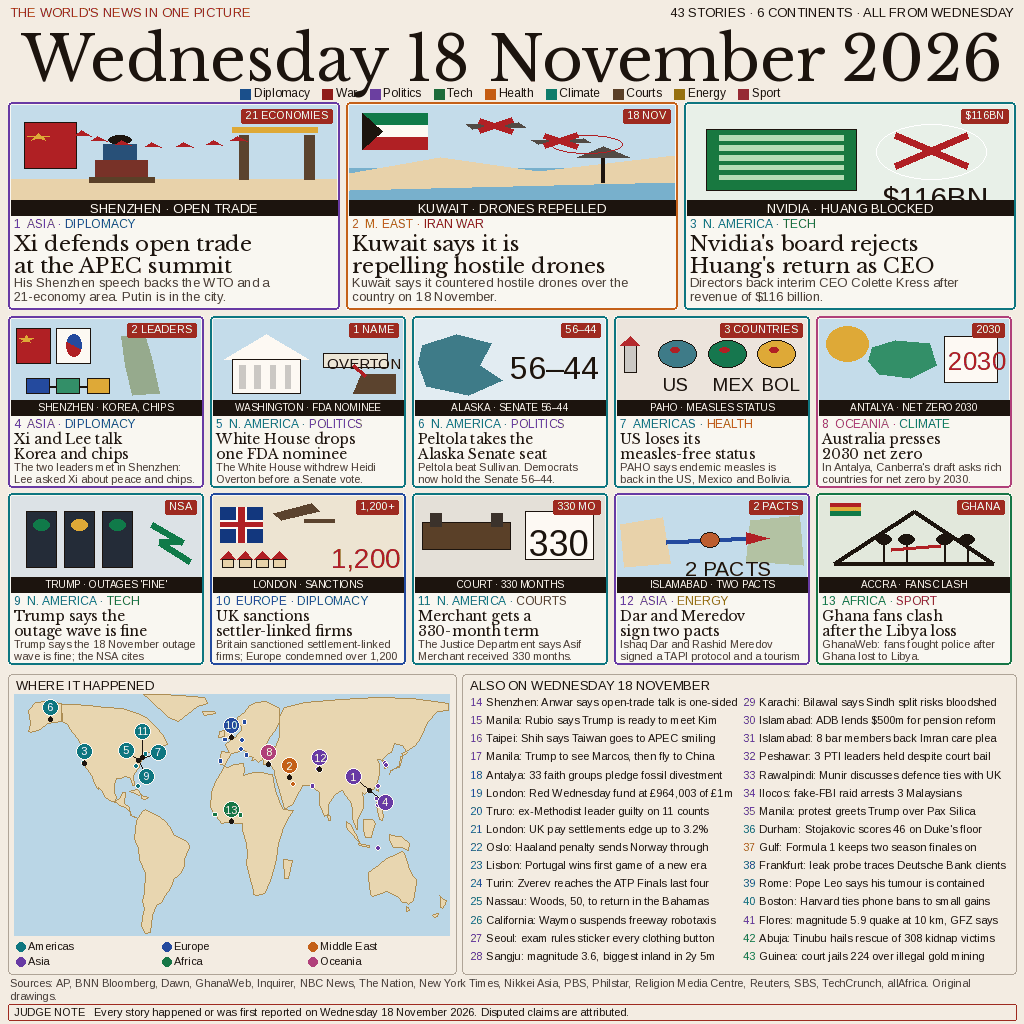
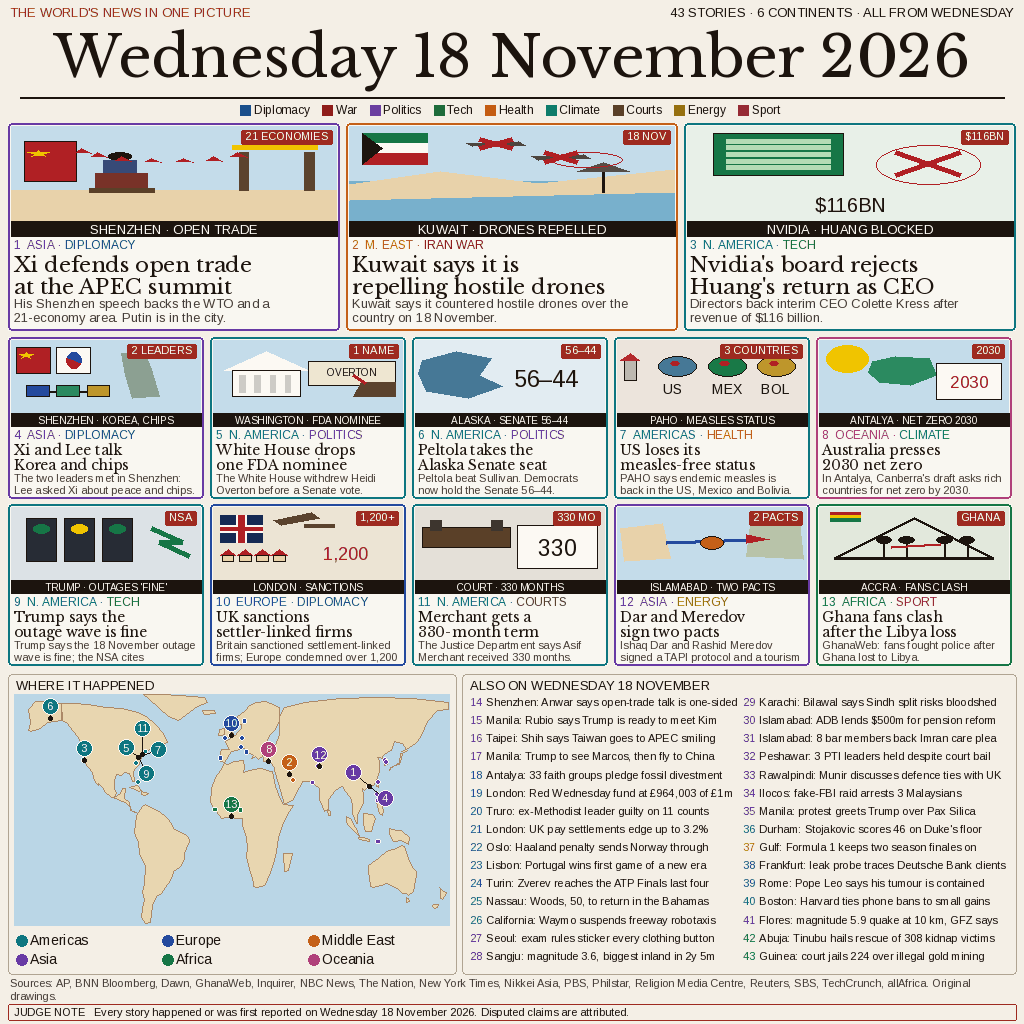
Fix overlapping labels on the 18 November page.
Keep the field key under the date rule, fit the Nvidia figure inside its picture, and drop the Islamabad label that sat on the drawing.

diff --git a/build/scenes.py b/build/scenes.py
@@ -134,13 +134,20 @@ def scene2(d, w, h, fonts):
 def scene3(d, w, h, fonts):
     r = R(d, w, h)
     r.rect(0, 0, 100, 100, (232, 240, 232))
-    r.rect(6, 22, 46, 56, (24, 120, 64), INK)
+    r.rect(8, 8, 40, 44, (24, 120, 64), INK)
     for i in range(5):
-        r.rect(10, 28 + i * 9, 38, 4, (180, 220, 180))
-    r.oval(58, 18, 34, 50, None)
-    r.line([(64, 28), (86, 56)], RED, r.h * 0.07)
-    r.line([(86, 28), (64, 56)], RED, r.h * 0.07)
-    r.text(60, 68, "$116BN", r.px(fonts, 0.28), INK)
+        r.rect(12, 14 + i * 7, 32, 4, (180, 220, 180))
+    r.oval(58, 20, 32, 42, None, RED)
+    r.line([(64, 28), (84, 52)], RED, max(2, int(r.h * 0.06)))
+    r.line([(84, 28), (64, 52)], RED, max(2, int(r.h * 0.06)))
+    label = "$116BN"
+    size = max(12, int(h * 0.22))
+    f = ImageFont.truetype(fonts["sansb"], size)
+    while size > 11 and d.textlength(label, font=f) > w * 0.72:
+        size -= 1
+        f = ImageFont.truetype(fonts["sansb"], size)
+    tw = d.textlength(label, font=f)
+    d.text(((w - tw) / 2, h - size - h * 0.08), label, font=f, fill=INK)
 
 
 def scene4(d, w, h, fonts):
@@ -162,8 +169,15 @@ def scene5(d, w, h, fonts):
     r.rect(10, 42, 36, 36, WHITE, INK)
     for i in range(4):
         r.rect(14 + i * 8, 48, 3, 24, (200, 206, 214))
-    r.rect(58, 36, 34, 14, (244, 236, 214), INK)
-    r.text(60, 38, "OVERTON", r.px(fonts, 0.16), INK)
+    r.rect(50, 30, 46, 32, (244, 236, 214), INK)
+    label = "OVERTON"
+    size = max(8, int(h * 0.15))
+    f = ImageFont.truetype(fonts["sansb"], size)
+    while size > 8 and (d.textlength(label, font=f) > w * 0.34 or size > h * 0.18):
+        size -= 1
+        f = ImageFont.truetype(fonts["sansb"], size)
+    tw = d.textlength(label, font=f)
+    d.text((w * 0.50 + (w * 0.46 - tw) / 2, h * 0.36), label, font=f, fill=INK)
     r.poly([(78, 58), (96, 58), (96, 78), (74, 78)], (90, 70, 56))
     r.line([(74, 48), (80, 60)], RED, r.h * 0.05)
 
@@ -173,13 +187,12 @@ def scene6(d, w, h, fonts):
     r.rect(0, 0, 100, 100, (226, 236, 242))
     r.poly([(4, 28), (22, 16), (40, 26), (34, 48), (46, 64), (28, 80), (6, 70), (2, 46)], (70, 120, 150))
     label = "56–44"
-    size = max(11, int(h * 0.36))
+    size = max(11, int(h * 0.32))
     f = ImageFont.truetype(fonts["sansb"], size)
-    while size > 10 and d.textlength(label, font=f) > w * 0.48:
+    while size > 10 and d.textlength(label, font=f) > w * 0.46:
         size -= 1
         f = ImageFont.truetype(fonts["sansb"], size)
-    tw = d.textlength(label, font=f)
-    d.text((w * 0.50, h * 0.32), label, font=f, fill=INK)
+    d.text((w * 0.52, h * 0.36), label, font=f, fill=INK)
 
 
 def scene7(d, w, h, fonts):
@@ -200,8 +213,15 @@ def scene8(d, w, h, fonts):
     r.rect(0, 0, 100, 100, SKY)
     r.oval(4, 8, 22, 36, GOLD)
     r.poly([(28, 30), (40, 22), (58, 26), (62, 48), (48, 62), (32, 58), (26, 44)], (40, 140, 90))
-    r.rect(66, 18, 28, 48, WHITE, INK)
-    r.text(68, 28, "2030", r.px(fonts, 0.28), RED)
+    r.rect(62, 32, 34, 50, WHITE, INK)
+    label = "2030"
+    size = max(8, int(h * 0.24))
+    f = ImageFont.truetype(fonts["sansb"], size)
+    while size > 8 and d.textlength(label, font=f) > w * 0.28:
+        size -= 1
+        f = ImageFont.truetype(fonts["sansb"], size)
+    tw = d.textlength(label, font=f)
+    d.text((w * 0.62 + (w * 0.34 - tw) / 2, h * 0.44), label, font=f, fill=RED)
 
 
 def scene9(d, w, h, fonts):
@@ -220,7 +240,13 @@ def scene10(d, w, h, fonts):
     r.poly([(32, 18), (52, 8), (56, 16), (36, 26)], (110, 72, 40))
     r.rect(48, 24, 16, 4, (110, 72, 40))
     _houses(r, 4, 58)
-    r.text(62, 48, "1,200", r.px(fonts, 0.3), RED)
+    label = "1,200"
+    size = max(10, int(h * 0.26))
+    f = ImageFont.truetype(fonts["sansb"], size)
+    while size > 10 and d.textlength(label, font=f) > w * 0.40:
+        size -= 1
+        f = ImageFont.truetype(fonts["sansb"], size)
+    d.text((w * 0.58, h * 0.50), label, font=f, fill=RED)
 
 
 def scene11(d, w, h, fonts):
@@ -229,8 +255,15 @@ def scene11(d, w, h, fonts):
     r.rect(4, 28, 46, 28, (92, 64, 42), INK)
     r.rect(8, 18, 6, 14, (70, 48, 32))
     r.rect(40, 18, 6, 14, (70, 48, 32))
-    r.rect(58, 16, 36, 50, WHITE, INK)
-    r.text(60, 28, "330", r.px(fonts, 0.38), INK)
+    r.rect(54, 26, 42, 58, WHITE, INK)
+    label = "330"
+    size = max(10, int(h * 0.32))
+    f = ImageFont.truetype(fonts["sansb"], size)
+    while size > 10 and (d.textlength(label, font=f) > w * 0.34 or size > h * 0.38):
+        size -= 1
+        f = ImageFont.truetype(fonts["sansb"], size)
+    tw = d.textlength(label, font=f)
+    d.text((w * 0.54 + (w * 0.42 - tw) / 2, h * 0.38), label, font=f, fill=INK)
 
 
 def scene12(d, w, h, fonts):
@@ -240,8 +273,7 @@ def scene12(d, w, h, fonts):
     r.poly([(70, 26), (96, 20), (98, 72), (68, 68)], (170, 196, 140))
     r.line([(26, 48), (72, 44)], (40, 90, 160), r.h * 0.06)
     r.poly([(68, 38), (80, 44), (68, 50)], RED)
-    r.oval(44, 38, 10, 16, (200, 80, 40), INK)
-    r.text(36, 62, "2 PACTS", r.px(fonts, 0.22), INK)
+    r.oval(44, 40, 12, 18, (200, 80, 40), INK)
 
 
 def scene13(d, w, h, fonts):

diff --git a/build/page.py b/build/page.py
@@ -182,7 +182,9 @@ def card(base, _d, box, story, fonts, lead):
     text_h = 98 if lead else 76
     art_h = max(44, h - text_h)
     art = (3, 3, w - 6, art_h)
-    paint_scene(layer, art, story["n"], fonts)
+    # Scene stops above the caption strip so picture text cannot be clipped by it.
+    bar = 15 if art_h > 90 else 13
+    paint_scene(layer, (art[0], art[1], art[2], max(24, art_h - bar)), story["n"], fonts)
     cfont = fit(fonts["sansb"], cap, art[2], 13 if lead else 10, 8, d)
     caption(d, art, cap, cfont)
     chip(d, w - 3, 3, chip_l, fonts["chip"])
@@ -251,17 +253,22 @@ def render():
     right = f"{len(illustrated) + len(also)} STORIES · 6 CONTINENTS · ALL FROM WEDNESDAY"
     d.text((1014 - d.textlength(right, font=kicker), 5), right, font=kicker, fill=INK)
     date = "Wednesday 18 November 2026"
-    date_font = fit(serif, date, 1000, 62, 40, d)
-    d.text(((1024 - d.textlength(date, font=date_font)) / 2, 20), date, font=date_font, fill=INK)
+    date_font = fit(serif, date, 1000, 58, 40, d)
+    dx = (1024 - d.textlength(date, font=date_font)) / 2
+    dy = 20
+    d.text((dx, dy), date, font=date_font, fill=INK)
+    # Key sits under the date's real ink, not under font.size (descenders overlap that).
+    rule_y = d.textbbox((dx, dy), date, font=date_font)[3] + 5
+    d.line((20, rule_y, 1004, rule_y), fill=INK, width=2)
     key_font = ImageFont.truetype(sans, 12)
     keys = [("Diplomacy", "DIPLOMACY"), ("War", "IRAN WAR"), ("Politics", "POLITICS"),
             ("Tech", "TECH"), ("Health", "HEALTH"), ("Climate", "CLIMATE"),
             ("Courts", "COURTS"), ("Energy", "ENERGY"), ("Sport", "SPORT")]
     widths = [16 + d.textlength(label, font=key_font) for label, _ in keys]
     kx = (1024 - (sum(widths) + 10 * (len(keys) - 1))) / 2
-    ky = 22 + date_font.size + 2
+    ky = rule_y + 6
     for (label, fk), wlabel in zip(keys, widths):
-        d.rectangle((kx, ky + 3, kx + 10, ky + 13), fill=FIELD[fk])
+        d.rectangle((kx, ky + 2, kx + 10, ky + 12), fill=FIELD[fk])
         d.text((kx + 13, ky), label, font=key_font, fill=INK)
         kx += wlabel + 10
     fonts = {"sans": sans, "sansb": sansb, "serif": serif,
@@ -269,7 +276,7 @@ def render():
              "dek": ImageFont.truetype(sans, 13), "dek_s": ImageFont.truetype(sans, 11)}
     footer_h, bottom_h = 44, 300
     bottom_y = 1024 - 6 - footer_h - bottom_h
-    lead_y = ky + 16
+    lead_y = ky + key_font.size + 8
     avail = bottom_y - 8 - lead_y
     lead_h = 208
     small_gap = 5
@@ -286,17 +293,17 @@ def render():
     d.rounded_rectangle((8, bottom_y, 456, bottom_y + bottom_h), radius=4, outline=(176, 164, 146), width=1)
     hfont = ImageFont.truetype(sansb, 13)
     d.text((16, bottom_y + 4), "WHERE IT HAPPENED", font=hfont, fill=INK)
-    map_box = (14, bottom_y + 20, 436, bottom_h - 58)
+    map_box = (14, bottom_y + 20, 436, bottom_h - 68)
     paint_land(im, map_box)
     pins(d, (map_box[0], map_box[1]), map_box[2], map_box[3], illustrated, also,
          ImageFont.truetype(sansb, 11))
     legend = list(REG.items())
-    lf = ImageFont.truetype(sans, 11)
+    lf = ImageFont.truetype(sans, 14)
     for i, (name, col) in enumerate(legend):
         lx = 16 + (i % 3) * 146
-        ly = bottom_y + bottom_h - 34 + (i // 3) * 15
-        d.ellipse((lx, ly + 2, lx + 9, ly + 11), fill=col)
-        d.text((lx + 12, ly), name, font=lf, fill=INK)
+        ly = bottom_y + bottom_h - 42 + (i // 3) * 19
+        d.ellipse((lx, ly + 3, lx + 11, ly + 14), fill=col)
+        d.text((lx + 14, ly), name, font=lf, fill=INK)
     ax = 462
     d.rounded_rectangle((ax, bottom_y, 1016, bottom_y + bottom_h), radius=4, outline=(176, 164, 146), width=1)
     d.text((ax + 8, bottom_y + 4), "ALSO ON WEDNESDAY 18 NOVEMBER", font=hfont, fill=INK)

diff --git a/NOTES.md b/NOTES.md
@@ -110,3 +110,17 @@ Story set: every fact from `data/stories.json`, Ghana promoted to the 13th illus
 `entry.png` is 1024×1024 palette PNG, 84,821 bytes. `MAKEFUN_OUTPUT_DIR=out node main.ts` matches it. A 300px shrink still shows the date, the three lead headlines and the small-card headlines.
 
 Next: only change the picture if a grade names a specific miss. Watch the US-cluster pin offsets and the small-card deks if a judge says a number is clipped.
+
+## Session 6 — defect fix
+
+Visible defects only. Story text, story set, and the rest of the layout are unchanged.
+
+- Field key (Diplomacy, War, …) sat on the date’s descenders. A rule is now drawn from the date’s real ink box, and the key sits under that rule.
+- Nvidia lead: `$116BN` is drawn in the picture above the caption strip, not through it. Scenes are painted only above the caption, so the strip cannot cover picture text.
+- Islamabad: the big `2 PACTS` is gone. The red chip and the caption already say it; the drawing is the pipeline only.
+- Other picture labels checked and kept inside their shapes: OVERTON, 56–44, US/MEX/BOL, 2030, 1,200, 330.
+- Map legend labels are 14px (were 11). The map is a few pixels shorter so the legend does not cover land.
+
+Checked at 1024 and at 300px: date and key are separate, `$116BN` and `330` sit fully in their pictures, Islamabad has no overlapping label, legend names read. `entry.png` is 1024×1024 palette, 82,947 bytes. `MAKEFUN_OUTPUT_DIR=out node main.ts` matches it.
+
+Next: change the picture only if a grade names a specific miss.
